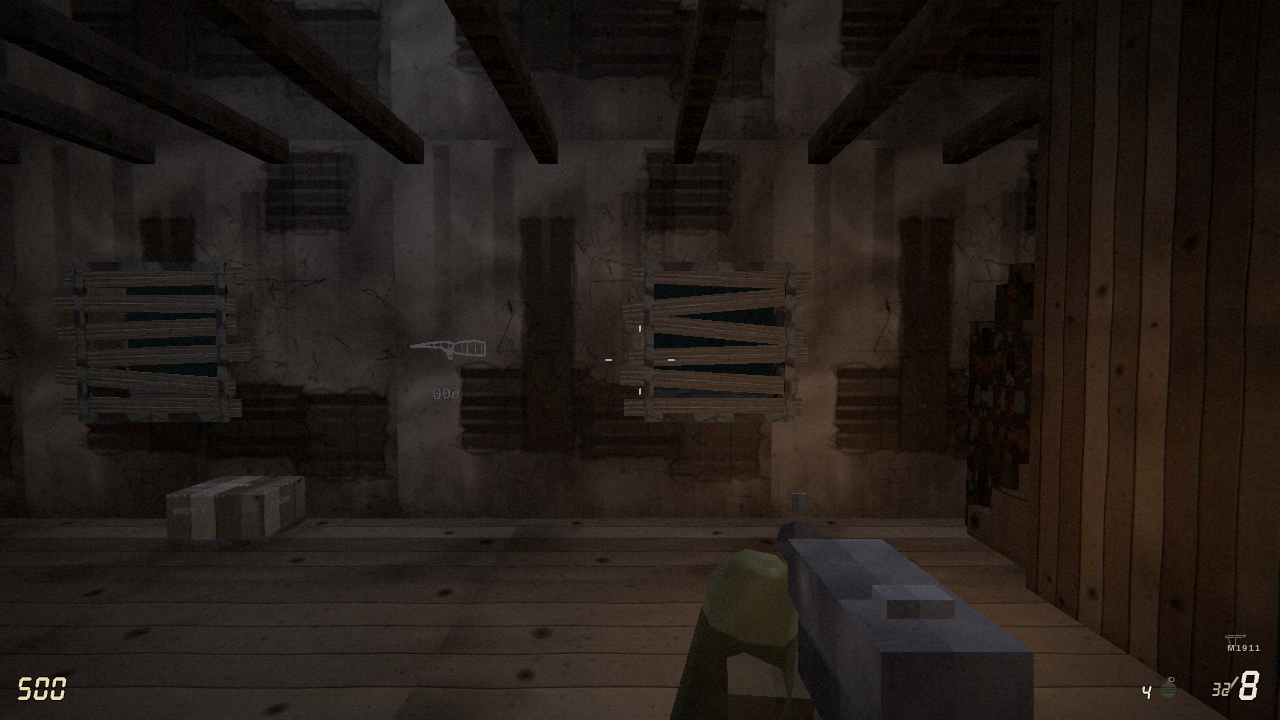
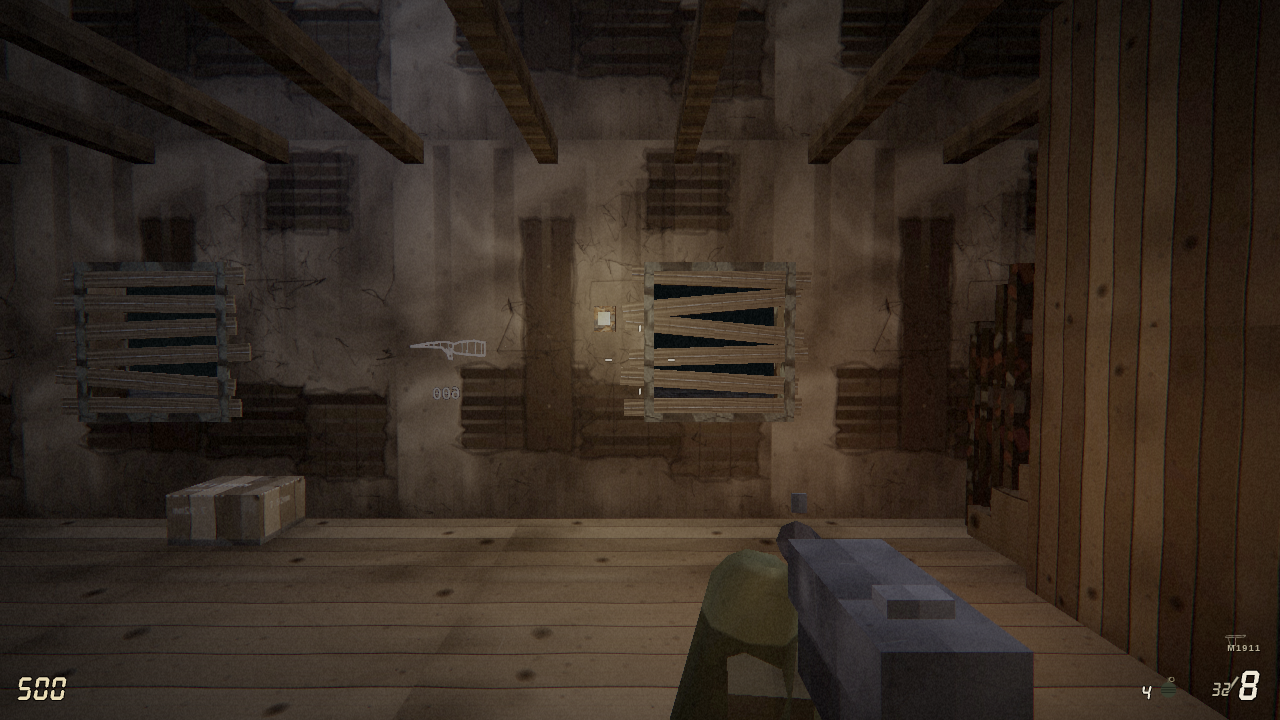
feat: wall sconces where the main hall had one bulb for seven windows
Round eight found the cause behind two rounds of "reads brown, not amber".
It was not the halo shader and not the ambient level: the ground-floor main
hall carries seven of the map's thirteen windows and had exactly one warm
bulb. Most of its wall footage sat outside any falloff and dropped to the
ambient floor, which is deliberately low. The rooms that read correctly
were simply the ones with a fixture in frame.

Three wall sconces in the main hall — north wall between the two boarded
windows, west wall, south wall — each a back plate, an arm, a self-lit
glass and its own warm light, sharing the halo the ceiling bulbs got. They
are mounted at eye height rather than hung, which was the review's actual
suggestion: it fixes the light hole and gives the eye something to land on
along the stretch of bare plaster it had called the highest-value empty
wall two rounds running. One fix for both problems.

The light pool now holds 13 emitters against MAX_LIGHTS of 8, which is
fine — the renderer already scores and selects the nearest eight per draw,
so the extras enter the set only when the player is in that room.

Also: window n1, the Kar98k corridor, still had no flanking clutter — the
narrowed-slab fix from last round opened the space but nothing had been
placed there. Three crates added.

World 6672 -> 6792 tris, 100 draw calls, worst sim 0.53 ms of the 16.67 ms
frame. All seven checks pass.

Story: EPIC-VIS-S19
[…]

diff --git a/nacht_der_untoten.artifact.html b/nacht_der_untoten.artifact.html
@@ -7831,7 +7831,7 @@ Z.assert = function (cond, msg) {
 }());
 
 
-/* ============================ 09_level.js (782 lines) ============================ */
+/* ============================ 09_level.js (818 lines) ============================ */
 // ---------------------------------------------------------------------------
 // 09_level.js — Nacht der Untoten.
 //
@@ -8398,6 +8398,13 @@ Z.assert = function (cond, msg) {
       }
     }
 
+    // Window n1, the Kar98k corridor, had no flanking clutter at all.
+    clutter([-9.35, 0, Z0 + 0.14], [-8.62, 0.42, Z0 + 0.74], 'crate_wood',
+      { uvScale: 1.15, lowProfile: true });
+    clutter([-9.2, 0.42, Z0 + 0.2], [-8.7, 0.80, Z0 + 0.68], 'crate_wood', { uvScale: 1.35 });
+    clutter([-6.55, 0, Z0 + 0.16], [-6.05, 0.40, Z0 + 0.66], 'crate_wood',
+      { uvScale: 1.25, lowProfile: true });
+
     // The HELP room's south wall stub is what a player faces cresting the
     // stairs, and it was bare concrete. Give it something to land on.
     clutter([-6.2, UP, -2.55], [-5.3, UP + 0.62, -2.05], 'crate_wood', { uvScale: 1.1 });
@@ -8477,6 +8484,35 @@ Z.assert = function (cond, msg) {
       intensity: 1.15, flicker: 0.52, name: 'sw_embers' });
     lights.push({ pos: [0.8, UP + 2.45, -2.2], color: [1.00, 0.70, 0.36], radius: 7.0,
       intensity: 1.05, flicker: 0.40, sway: 0.05, name: 'catwalk_bulb' });
+
+    // Wall sconces. The main hall carries seven of the map's thirteen windows
+    // and had exactly one ceiling bulb, so most of its wall footage sat outside
+    // any warm falloff and dropped to the ambient floor — which is deliberately
+    // low, and is why that room kept reading brown while the rooms with a bulb
+    // in frame read amber. Mounted at eye height rather than hung from the
+    // ceiling, so each one also gives the eye something to land on along a
+    // stretch of otherwise bare plaster.
+    function sconce(x, y, z, n, name) {
+      const t = 0.055;                       // how far the fitting stands proud
+      // back plate flat against the wall
+      box([x - (n[2] ? 0.09 : t), y - 0.11, z - (n[0] ? 0.09 : t)],
+        [x + (n[2] ? 0.09 : t), y + 0.11, z + (n[0] ? 0.09 : t)],
+        'barrel_metal', { uvScale: 5, solid: false });
+      // arm out into the room
+      const ax = x + n[0] * 0.13, az = z + n[2] * 0.13;
+      box([Math.min(x, ax) - 0.018, y + 0.02, Math.min(z, az) - 0.018],
+        [Math.max(x, ax) + 0.018, y + 0.055, Math.max(z, az) + 0.018],
+        'barrel_metal', { uvScale: 6, solid: false });
+      // glass, self-lit
+      const gx = x + n[0] * 0.19, gz = z + n[2] * 0.19;
+      box([gx - 0.048, y - 0.055, gz - 0.048], [gx + 0.048, y + 0.052, gz + 0.048],
+        'bulb_glass', { uvScale: 1, solid: false });
+      lights.push({ pos: [gx, y, gz], color: [1.00, 0.68, 0.31], radius: 7.6,
+        intensity: 1.30, flicker: 0.30, name: name });
+    }
+    sconce(-1.4, 1.78, Z0 + 0.12, [0, 0, 1], 'hall_sconce_n');
+    sconce(X0 + 0.12, 1.78, -4.6, [1, 0, 0], 'hall_sconce_w');
+    sconce(-5.2, 1.78, Z1 - 0.12, [0, 0, -1], 'hall_sconce_s');
 
     // Every warm emitter was a bare point light with no geometry, so the rooms
     // had pools of amber coming from nowhere. The hanging bulb on its cord is
@@ -18350,7 +18386,7 @@ Z.assert = function (cond, msg) {
     Z.Render.beginQuads();
     let n = 0;
     for (const L of lv.lights) {
-      if (!/_bulb$/.test(L.name)) continue;
+      if (!/_(bulb|sconce)$/.test(L.name)) continue;
       // Ride the same flicker the light itself does, so the halo dims with it
       // instead of floating at a constant brightness over a guttering bulb.
       const f = L.flicker

diff --git a/nacht_der_untoten.html b/nacht_der_untoten.html
@@ -7838,7 +7838,7 @@ Z.assert = function (cond, msg) {
 }());
 
 
-/* ============================ 09_level.js (782 lines) ============================ */
+/* ============================ 09_level.js (818 lines) ============================ */
 // ---------------------------------------------------------------------------
 // 09_level.js — Nacht der Untoten.
 //
@@ -8405,6 +8405,13 @@ Z.assert = function (cond, msg) {
       }
     }
 
+    // Window n1, the Kar98k corridor, had no flanking clutter at all.
+    clutter([-9.35, 0, Z0 + 0.14], [-8.62, 0.42, Z0 + 0.74], 'crate_wood',
+      { uvScale: 1.15, lowProfile: true });
+    clutter([-9.2, 0.42, Z0 + 0.2], [-8.7, 0.80, Z0 + 0.68], 'crate_wood', { uvScale: 1.35 });
+    clutter([-6.55, 0, Z0 + 0.16], [-6.05, 0.40, Z0 + 0.66], 'crate_wood',
+      { uvScale: 1.25, lowProfile: true });
+
     // The HELP room's south wall stub is what a player faces cresting the
     // stairs, and it was bare concrete. Give it something to land on.
     clutter([-6.2, UP, -2.55], [-5.3, UP + 0.62, -2.05], 'crate_wood', { uvScale: 1.1 });
@@ -8484,6 +8491,35 @@ Z.assert = function (cond, msg) {
       intensity: 1.15, flicker: 0.52, name: 'sw_embers' });
     lights.push({ pos: [0.8, UP + 2.45, -2.2], color: [1.00, 0.70, 0.36], radius: 7.0,
       intensity: 1.05, flicker: 0.40, sway: 0.05, name: 'catwalk_bulb' });
+
+    // Wall sconces. The main hall carries seven of the map's thirteen windows
+    // and had exactly one ceiling bulb, so most of its wall footage sat outside
+    // any warm falloff and dropped to the ambient floor — which is deliberately
+    // low, and is why that room kept reading brown while the rooms with a bulb
+    // in frame read amber. Mounted at eye height rather than hung from the
+    // ceiling, so each one also gives the eye something to land on along a
+    // stretch of otherwise bare plaster.
+    function sconce(x, y, z, n, name) {
+      const t = 0.055;                       // how far the fitting stands proud
+      // back plate flat against the wall
+      box([x - (n[2] ? 0.09 : t), y - 0.11, z - (n[0] ? 0.09 : t)],
+        [x + (n[2] ? 0.09 : t), y + 0.11, z + (n[0] ? 0.09 : t)],
+        'barrel_metal', { uvScale: 5, solid: false });
+      // arm out into the room
+      const ax = x + n[0] * 0.13, az = z + n[2] * 0.13;
+      box([Math.min(x, ax) - 0.018, y + 0.02, Math.min(z, az) - 0.018],
+        [Math.max(x, ax) + 0.018, y + 0.055, Math.max(z, az) + 0.018],
+        'barrel_metal', { uvScale: 6, solid: false });
+      // glass, self-lit
+      const gx = x + n[0] * 0.19, gz = z + n[2] * 0.19;
+      box([gx - 0.048, y - 0.055, gz - 0.048], [gx + 0.048, y + 0.052, gz + 0.048],
+        'bulb_glass', { uvScale: 1, solid: false });
+      lights.push({ pos: [gx, y, gz], color: [1.00, 0.68, 0.31], radius: 7.6,
+        intensity: 1.30, flicker: 0.30, name: name });
+    }
+    sconce(-1.4, 1.78, Z0 + 0.12, [0, 0, 1], 'hall_sconce_n');
+    sconce(X0 + 0.12, 1.78, -4.6, [1, 0, 0], 'hall_sconce_w');
+    sconce(-5.2, 1.78, Z1 - 0.12, [0, 0, -1], 'hall_sconce_s');
 
     // Every warm emitter was a bare point light with no geometry, so the rooms
     // had pools of amber coming from nowhere. The hanging bulb on its cord is
@@ -18357,7 +18393,7 @@ Z.assert = function (cond, msg) {
     Z.Render.beginQuads();
     let n = 0;
     for (const L of lv.lights) {
-      if (!/_bulb$/.test(L.name)) continue;
+      if (!/_(bulb|sconce)$/.test(L.name)) continue;
       // Ride the same flicker the light itself does, so the halo dims with it
       // instead of floating at a constant brightness over a guttering bulb.
       const f = L.flicker

diff --git a/src/game/09_level.js b/src/game/09_level.js
@@ -564,6 +564,13 @@
       }
     }
 
+    // Window n1, the Kar98k corridor, had no flanking clutter at all.
+    clutter([-9.35, 0, Z0 + 0.14], [-8.62, 0.42, Z0 + 0.74], 'crate_wood',
+      { uvScale: 1.15, lowProfile: true });
+    clutter([-9.2, 0.42, Z0 + 0.2], [-8.7, 0.80, Z0 + 0.68], 'crate_wood', { uvScale: 1.35 });
+    clutter([-6.55, 0, Z0 + 0.16], [-6.05, 0.40, Z0 + 0.66], 'crate_wood',
+      { uvScale: 1.25, lowProfile: true });
+
     // The HELP room's south wall stub is what a player faces cresting the
     // stairs, and it was bare concrete. Give it something to land on.
     clutter([-6.2, UP, -2.55], [-5.3, UP + 0.62, -2.05], 'crate_wood', { uvScale: 1.1 });
@@ -643,6 +650,35 @@
       intensity: 1.15, flicker: 0.52, name: 'sw_embers' });
     lights.push({ pos: [0.8, UP + 2.45, -2.2], color: [1.00, 0.70, 0.36], radius: 7.0,
       intensity: 1.05, flicker: 0.40, sway: 0.05, name: 'catwalk_bulb' });
+
+    // Wall sconces. The main hall carries seven of the map's thirteen windows
+    // and had exactly one ceiling bulb, so most of its wall footage sat outside
+    // any warm falloff and dropped to the ambient floor — which is deliberately
+    // low, and is why that room kept reading brown while the rooms with a bulb
+    // in frame read amber. Mounted at eye height rather than hung from the
+    // ceiling, so each one also gives the eye something to land on along a
+    // stretch of otherwise bare plaster.
+    function sconce(x, y, z, n, name) {
+      const t = 0.055;                       // how far the fitting stands proud
+      // back plate flat against the wall
+      box([x - (n[2] ? 0.09 : t), y - 0.11, z - (n[0] ? 0.09 : t)],
+        [x + (n[2] ? 0.09 : t), y + 0.11, z + (n[0] ? 0.09 : t)],
+        'barrel_metal', { uvScale: 5, solid: false });
+      // arm out into the room
+      const ax = x + n[0] * 0.13, az = z + n[2] * 0.13;
+      box([Math.min(x, ax) - 0.018, y + 0.02, Math.min(z, az) - 0.018],
+        [Math.max(x, ax) + 0.018, y + 0.055, Math.max(z, az) + 0.018],
+        'barrel_metal', { uvScale: 6, solid: false });
+      // glass, self-lit
+      const gx = x + n[0] * 0.19, gz = z + n[2] * 0.19;
+      box([gx - 0.048, y - 0.055, gz - 0.048], [gx + 0.048, y + 0.052, gz + 0.048],
+        'bulb_glass', { uvScale: 1, solid: false });
+      lights.push({ pos: [gx, y, gz], color: [1.00, 0.68, 0.31], radius: 7.6,
+        intensity: 1.30, flicker: 0.30, name: name });
+    }
+    sconce(-1.4, 1.78, Z0 + 0.12, [0, 0, 1], 'hall_sconce_n');
+    sconce(X0 + 0.12, 1.78, -4.6, [1, 0, 0], 'hall_sconce_w');
+    sconce(-5.2, 1.78, Z1 - 0.12, [0, 0, -1], 'hall_sconce_s');
 
     // Every warm emitter was a bare point light with no geometry, so the rooms
     // had pools of amber coming from nowhere. The hanging bulb on its cord is

diff --git a/src/game/22_game.js b/src/game/22_game.js
@@ -554,7 +554,7 @@
     Z.Render.beginQuads();
     let n = 0;
     for (const L of lv.lights) {
-      if (!/_bulb$/.test(L.name)) continue;
+      if (!/_(bulb|sconce)$/.test(L.name)) continue;
       // Ride the same flicker the light itself does, so the halo dims with it
       // instead of floating at a constant brightness over a guttering bulb.
       const f = L.flicker
